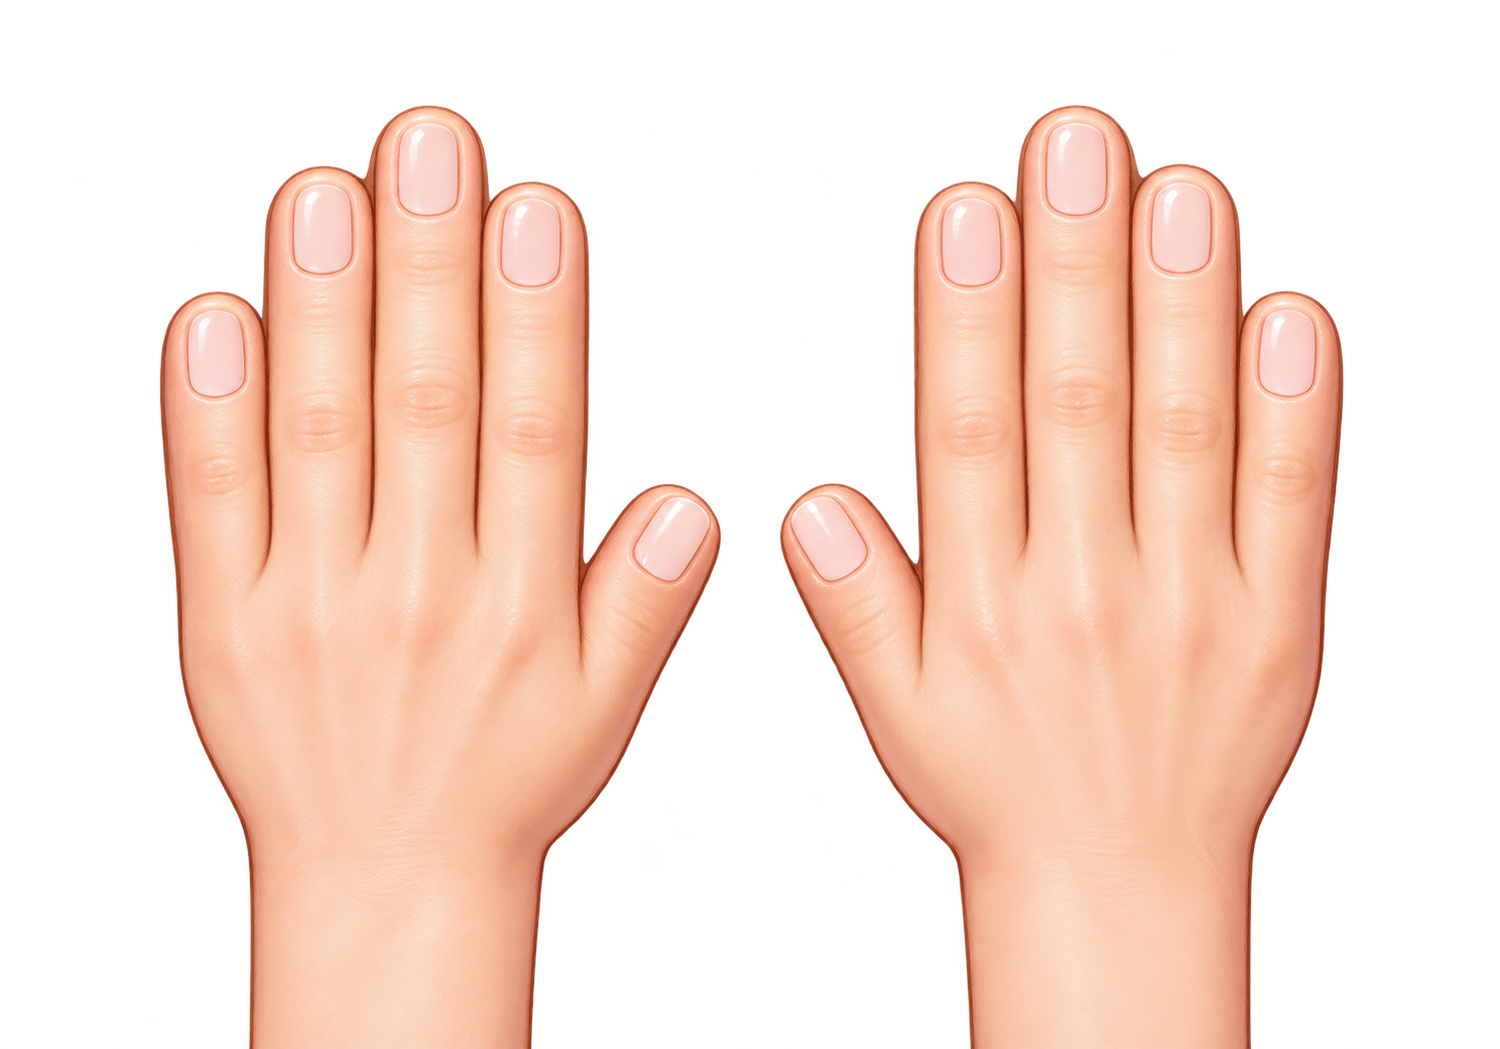
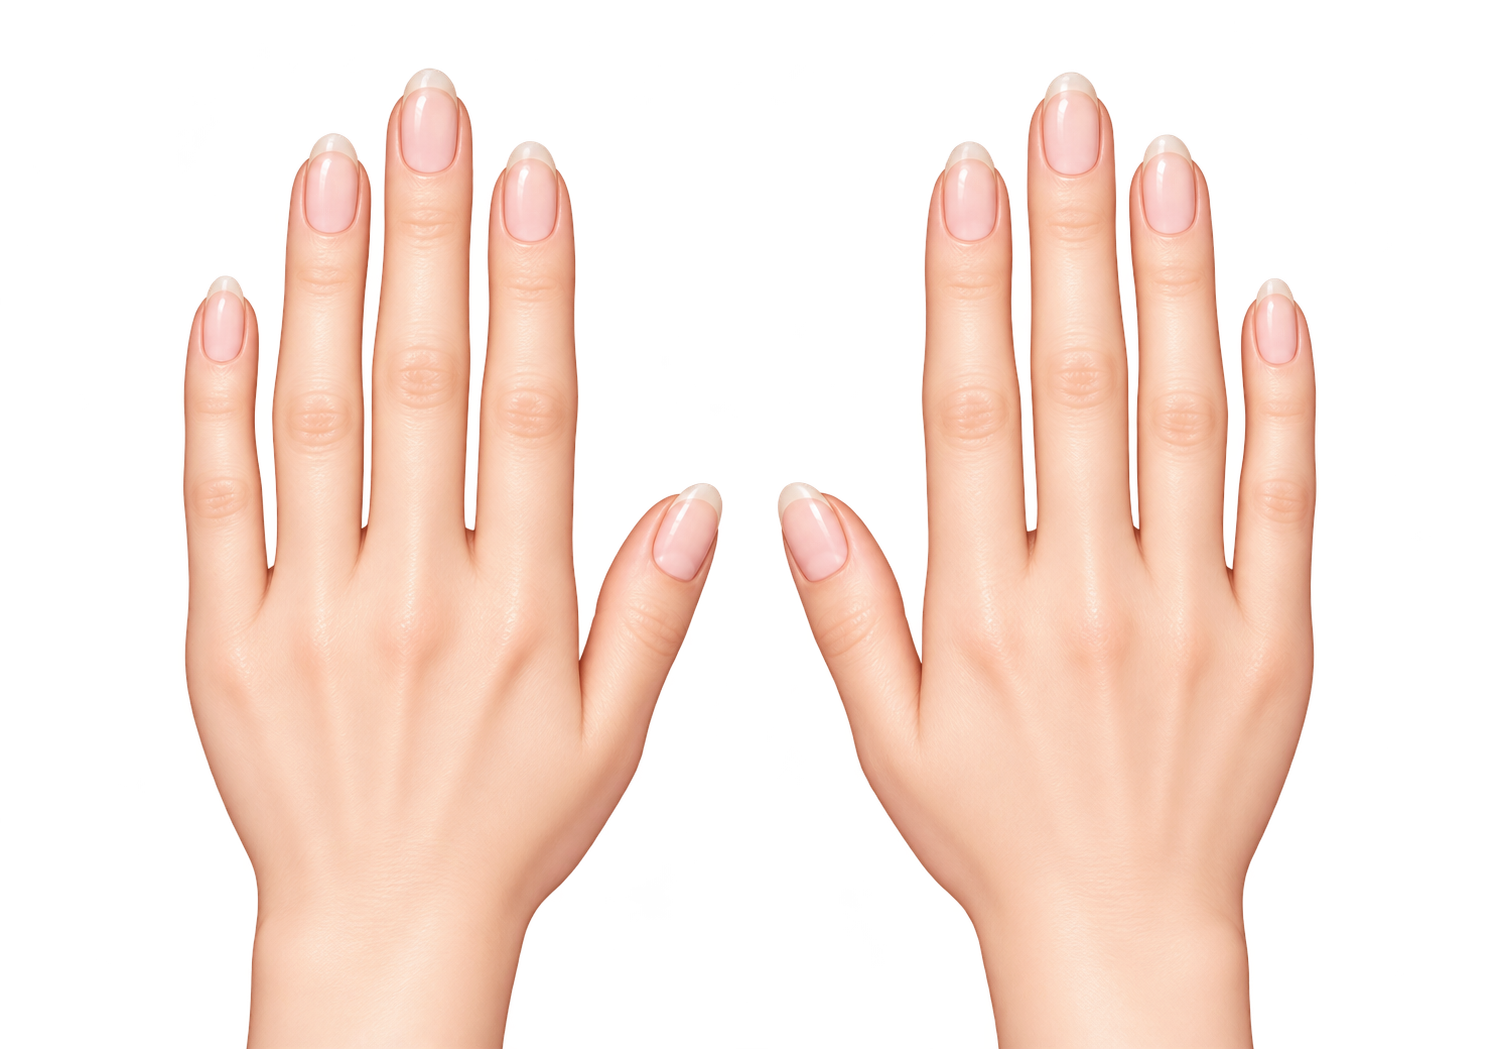
Refine feminine hands, oval nails and illustrated jewelry

diff --git a/script.js b/script.js
@@ -52,42 +52,61 @@
     ["pearl", "Жемчужный"],
     ["beads", "Цветные бусины"],
   ];
-  // Positions measured on the 1500 × 1050 hand illustration, expressed
-  // in the shared 1000 × 700 scene. Every nail and decoration scales together.
+  // Nail centers and separate width/length scales calibrated to the new
+  // illustration. Coordinates stay in the shared 1000 × 700 scene.
   const fingerConfig = [
     {
       key: "little",
       name: "Мизинец",
-      x: 145,
-      y: 236,
-      rotation: -3,
-      scale: 0.98,
+      x: 148.5,
+      y: 215,
+      rotation: 1,
+      sx: 0.8,
+      sy: 0.91,
     },
-    { key: "ring", name: "Безымянный", x: 214, y: 150, rotation: -2, scale: 1 },
-    { key: "middle", name: "Средний", x: 287, y: 111, rotation: 0, scale: 1.1 },
+    {
+      key: "ring",
+      name: "Безымянный",
+      x: 220,
+      y: 124,
+      rotation: 3,
+      sx: 0.94,
+      sy: 1.06,
+    },
+    {
+      key: "middle",
+      name: "Средний",
+      x: 286.5,
+      y: 83,
+      rotation: 0,
+      sx: 1.08,
+      sy: 1.08,
+    },
     {
       key: "index",
       name: "Указательный",
       x: 352,
-      y: 159,
+      y: 131,
       rotation: 2,
-      scale: 1,
+      sx: 1.02,
+      sy: 1.04,
     },
     {
       key: "thumb",
       name: "Большой",
-      x: 447,
-      y: 358,
-      rotation: 36,
-      scale: 0.95,
+      x: 456.5,
+      y: 354,
+      rotation: 23,
+      sx: 0.85,
+      sy: 0.94,
     },
   ];
   const rightOffsets = {
-    little: [0, -3],
-    ring: [0, 0],
-    middle: [2, 0],
-    index: [2, 0],
-    thumb: [4, 0],
+    little: [0, 0],
+    ring: [2, 0],
+    middle: [-2, 0],
+    index: [3, -1],
+    thumb: [-1, 0],
   };
   const ids = ["left", "right"].flatMap((hand) =>
     fingerConfig.map((f) => `${hand}-${f.key}`),
@@ -138,7 +157,7 @@
                     Number.isFinite(g.x) &&
                     Number.isFinite(g.y) &&
                     Math.abs(g.x) <= 20 &&
-                    Math.abs(g.y) <= 32,
+                    Math.abs(g.y) <= 35,
                 )
                 .slice(0, 15)
             : [],
@@ -152,7 +171,7 @@
                     Number.isFinite(p.x) &&
                     Number.isFinite(p.y) &&
                     Math.abs(p.x) <= 20 &&
-                    Math.abs(p.y) <= 32 &&
+                    Math.abs(p.y) <= 35 &&
                     [
                       "#d5a52c",
                       "#fff0a6",
@@ -222,7 +241,7 @@
     toastTimer = setTimeout(() => $("toast").classList.remove("visible"), 2600);
   }
   const nailPath =
-    "M -17 -14 Q -17 -28 0 -29 Q 17 -28 17 -14 L 18 17 Q 18 29 0 29 Q -18 29 -18 17 Z";
+    "M0 -35 C11 -35 17 -25 17 -11 L18 10 C18 22 10 30 0 30 C-10 30 -18 22 -18 10 L-17 -11 C-17 -25 -11 -35 0 -35Z";
   const handPath =
     "M180 720 L179 591 Q178 545 158 506 Q135 472 133 427 L119 267 Q117 211 148 210 Q177 208 180 247 L187 366 L188 174 Q188 130 218 130 Q248 130 248 174 L254 346 L256 139 Q255 94 286 94 Q317 94 317 139 L322 345 L324 183 Q324 141 354 141 Q384 141 384 183 L380 413 L421 350 Q440 321 459 342 Q481 364 461 396 L415 488 Q397 537 358 561 L350 720 Z";
   function star(x, y, r, color) {
@@ -289,33 +308,27 @@
     const n = state.nails[id];
     return `<g class="art" clip-path="url(#clip-${id})" pointer-events="none"><path d="${nailPath}" fill="${n.color || "transparent"}"/>${n.color ? `<path d="${nailPath}" fill="url(#polish-light)"/>` : ""}${designArt(n.design, n.color)}${n.particles.map((p) => `<circle cx="${p.x}" cy="${p.y}" r="${p.r}" fill="${p.color}" opacity=".8"/>`).join("")}${n.gems.map(gemArt).join("")}${n.color ? `<path d="M-12 -19 Q-11 -25 -5 -25" fill="none" stroke="white" stroke-width="3.5" opacity=".65" stroke-linecap="round"/><path d="M-13 -14 L-13 -5" stroke="white" stroke-width="1.8" opacity=".3" stroke-linecap="round"/>` : ""}</g><path class="nail-border" d="${nailPath}" fill="none" stroke="#bb827c" stroke-width="1" opacity=".22" pointer-events="none"/><path class="hit" d="${nailPath}" fill="transparent"/>`;
   }
+  // Each decoration uses its own cell of the illustrated transparent sheet.
+  // Nested SVG viewports crop without modifying the original artwork; these
+  // same viewports work in the tool cards, on the hands and in PNG exports.
+  const jewelryCells = {
+    ring: { gold: 0, silver: 1, heart: 2, flower: 3 },
+    bracelet: { gold: 0, silver: 1, pearl: 2, beads: 3 },
+  };
+  function jewelrySprite(kind, type, x, y, width, height) {
+    const cell = jewelryCells[kind][type];
+    const cropY = kind === "ring" ? 210 : 660;
+    const cropHeight = kind === "ring" ? 170 : 190;
+    return `<svg x="${x}" y="${y}" width="${width}" height="${height}" viewBox="${cell * 384 + 8} ${cropY} 368 ${cropHeight}" preserveAspectRatio="none" overflow="hidden" pointer-events="none"><image href="./assets/jewelry-sheet.png" width="1536" height="1024"/></svg>`;
+  }
   function ringArt(type) {
-    const metal = type === "silver" ? "url(#silver)" : "url(#gold)";
-    let jewel =
-      type === "heart"
-        ? heart(219, 286, 8, "#e37fa1")
-        : type === "flower"
-          ? flower(219, 281, 8, "#fff4fa")
-          : `<path d="M219 271 L225 278 L219 286 L213 278Z" fill="${type === "silver" ? "#a5d7ee" : "#ebbbd1"}" stroke="white" stroke-width="1"/>`;
-    return `<g class="jewel art" pointer-events="none"><path d="M193 281 Q217 293 244 282" stroke="#8c645638" stroke-width="11" fill="none"/><path d="M193 278 Q217 289 244 279" stroke="${metal}" stroke-width="8" fill="none" stroke-linecap="round"/><path d="M195 276 Q218 286 242 277" stroke="#fff5bd" opacity=".65" stroke-width="2" fill="none"/>${jewel}</g>`;
+    return `<g class="jewel art" pointer-events="none">${jewelrySprite("ring", type, 193, 260, 55, 25.4)}</g>`;
   }
   function braceletArt(type) {
-    if (type === "gold" || type === "silver") {
-      const metal = type === "gold" ? "url(#gold)" : "url(#silver)";
-      return `<g class="jewel art" pointer-events="none"><path d="M181 620 Q265 649 351 620" stroke="#926b4b28" stroke-width="20" fill="none"/><path d="M181 616 Q265 644 351 616" stroke="${metal}" stroke-width="14" fill="none" stroke-linecap="round"/><path d="M182 613 Q265 641 350 613" stroke="#fff7d1" stroke-width="3" fill="none" opacity=".65"/>${star(264, 636, 7, type === "gold" ? "#fff3b4" : "#f2f8ff")}</g>`;
-    }
-    return `<g class="jewel art" pointer-events="none"><path d="M183 617 Q266 646 349 617" stroke="#d6b2c0" stroke-width="3" fill="none"/>${Array.from(
-      { length: 14 },
-      (_, i) => {
-        const x = 183 + i * 12.8,
-          y = 618 + Math.sin((i / 13) * Math.PI) * 15;
-        const c =
-          type === "pearl"
-            ? "url(#pearl)"
-            : ["#ef9cb5", "#a895d8", "#8bcec2", "#f2d078"][i % 4];
-        return `<circle cx="${x}" cy="${y}" r="7.4" fill="${c}" stroke="#b597aa" stroke-width=".7"/><circle cx="${x - 2}" cy="${y - 2}" r="1.7" fill="white" opacity=".6"/>`;
-      },
-    ).join("")}</g>`;
+    return `<g class="jewel art" pointer-events="none">${jewelrySprite("bracelet", type, 169, 603, 166, 65)}</g>`;
+  }
+  function jewelryPreview(kind, type) {
+    return `<svg class="jewelry-preview" viewBox="0 0 100 60" aria-hidden="true">${jewelrySprite(kind, type, 2, 5, 96, kind === "ring" ? 44 : 49)}</svg>`;
   }
   function createTable() {
     $("table").innerHTML = `
@@ -337,7 +350,7 @@
       ${fingerConfig
         .map((f) => {
           const offset = hand === "right" ? rightOffsets[f.key] : [0, 0];
-          return `<g data-nail="${hand}-${f.key}" transform="translate(${f.x + offset[0]} ${f.y + offset[1]}) rotate(${f.rotation}) scale(${f.scale})" role="button" tabindex="0" aria-label="${hand === "left" ? "Левая" : "Правая"} рука: ${f.name.toLowerCase()}, нанести выбранный инструмент"></g>`;
+          return `<g data-nail="${hand}-${f.key}" transform="translate(${f.x + offset[0]} ${f.y + offset[1]}) rotate(${f.rotation}) scale(${f.sx} ${f.sy})" role="button" tabindex="0" aria-label="${hand === "left" ? "Левая" : "Правая"} рука: ${f.name.toLowerCase()}, нанести выбранный инструмент"></g>`;
         })
         .join("")}
       <g id="ring-${hand}"></g><g id="bracelet-${hand}"></g>
@@ -430,7 +443,7 @@
     }
   }
   function previewDesign(type) {
-    return `<svg viewBox="-24 -35 48 70" aria-hidden="true"><defs><clipPath id="preview-${type}"><path d="${nailPath}"/></clipPath></defs><g clip-path="url(#preview-${type})"><path d="${nailPath}" fill="#e88fad"/>${designArt(type, "#e88fad")}</g><path d="${nailPath}" fill="none" stroke="#ce8aa5"/></svg>`;
+    return `<svg viewBox="-24 -39 48 74" aria-hidden="true"><defs><clipPath id="preview-${type}"><path d="${nailPath}"/></clipPath></defs><g clip-path="url(#preview-${type})"><path d="${nailPath}" fill="#e88fad"/>${designArt(type, "#e88fad")}</g><path d="${nailPath}" fill="none" stroke="#ce8aa5"/></svg>`;
   }
   function optionButton(label, art, active, fn) {
     const b = document.createElement("button");
@@ -623,10 +636,7 @@
         }
         const g = grid(o);
         for (const [type, label] of collection) {
-          const art =
-            key === "ring"
-              ? `<svg viewBox="187 261 65 38" aria-hidden="true">${ringArt(type)}</svg>`
-              : `<svg viewBox="172 605 190 48" aria-hidden="true">${braceletArt(type)}</svg>`;
+          const art = jewelryPreview(key, type);
           g.append(
             optionButton(label, art, state[key]?.type === type, () => {
               change(

diff --git a/style.css b/style.css
@@ -798,3 +798,14 @@ nav button[aria-pressed="true"] {
     padding-bottom: 3px;
   }
 }
+
+.option svg.jewelry-preview {
+  width: 70px;
+  height: 50px;
+}
+@media (max-height: 650px) and (min-width: 701px) {
+  .option svg.jewelry-preview {
+    width: 57px;
+    height: 43px;
+  }
+}

diff --git a/README.md b/README.md
@@ -26,9 +26,9 @@
 | `script.js`  | Интерактивная графика, состояние, инструменты, история и экспорт |
 | `README.md`  | Запуск, публикация и встраивание                                 |
 
-**Иллюстрации:** `assets/salon-table.png` — стол и подложка; `assets/client-hands.png` — две руки с прозрачным фоном. Публикуйте папку `assets` целиком.
+**Иллюстрации:** `assets/salon-table.png` — стол и подложка; `assets/client-hands.png` — две изящные руки с округлыми, немного отросшими натуральными ноготками; `assets/jewelry-sheet.png` — восемь нарисованных колец и браслетов с прозрачным фоном. Публикуйте папку `assets` целиком.
 
-Все ресурсы локальные, пути относительные. Стол и руки — созданные для игры PNG-иллюстрации, флакончики, иконки, декор и украшения — чёткие SVG-рисунки. Контуры всех десяти ногтей подогнаны к иллюстрации и масштабируются вместе с ней. При экспорте локальные PNG встраиваются в SVG как данные: итоговая картинка содержит фон и руки без обращения к внешним сервисам. Устанавливать npm-пакеты для игры не требуется.
+Все ресурсы локальные, пути относительные. Стол, руки, кольца и браслеты — созданные для игры PNG-иллюстрации; флакончики, иконки и декор ногтей — чёткие SVG-рисунки. Каждое украшение отображается через отдельное окно общей иллюстрации, без сторонних ресурсов. Контуры всех десяти ногтей подогнаны к иллюстрации и масштабируются вместе с ней. При экспорте локальные PNG встраиваются в SVG как данные: итоговая картинка содержит фон и руки без обращения к внешним сервисам. Устанавливать npm-пакеты для игры не требуется.
 
 ## Локальный запуск
 
